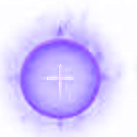
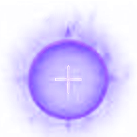
Bottom bar: supplied bar artwork; recentre + sprite frames so the plus stays fixed
Claude-Session: https://claude.ai/code/session_01Ww3m4KYLXCWGYCo8WrB84K

diff --git a/src/ui.tsx b/src/ui.tsx
@@ -187,41 +187,17 @@ const TAB_STYLE: Record<Tab, { d: string[]; color: string; fill?: boolean }> = {
 };
 const LABELS: Record<Tab, string> = { home: 'Dashboard', stats: 'Stats', recipes: 'Recipes', profile: 'Profile' };
 
-const BAR_H = 68; // the bar itself
+const BAR_H = 76; // the bar itself
 const OVER = 92; // room above the bar for the gate button, its aura and its flames
 const MARGIN = 12;
 const BTN_R = 33; // gate button radius
 const CANVAS = 140; // square canvas holding the aura / flames, centred on the button
 const CC = { x: 70, y: 86 }; // button centre inside that canvas
 
-function barPath(w: number) {
-  const p = 3, tip = 26, h = BAR_H, cx = w / 2, nr = BTN_R + 9;
-  const dx = Math.sqrt(nr * nr - 16); // the notch is a circle centred 4px above the top edge
-  return `M ${p + tip} ${p} L ${cx - dx} ${p} A ${nr} ${nr} 0 0 0 ${cx + dx} ${p} L ${w - p - tip} ${p} L ${w - p} ${h / 2} L ${w - p - tip} ${h - p} L ${p + tip} ${h - p} L ${p} ${h / 2} Z`;
-}
-const diamond = (x: number, y: number, rx: number, ry: number) => `M ${x} ${y - ry} L ${x + rx} ${y} L ${x} ${y + ry} L ${x - rx} ${y} Z`;
+const BAR_IMG = require('../assets/bar.png'); // supplied artwork 845x141: notch in the middle, ornaments at both tips and the notch foot
 
 function BarShape({ w }: { w: number }) {
-  const d = barPath(w);
-  return (
-    <Svg width={w} height={BAR_H} style={{ position: 'absolute', left: 0, top: OVER }}>
-      <Defs>
-        <LinearGradient id="barFill" x1="0" y1="0" x2="0" y2="1">
-          <Stop offset="0" stopColor={NAV.fillTop} stopOpacity={1} />
-          <Stop offset="1" stopColor={NAV.fillBot} stopOpacity={1} />
-        </LinearGradient>
-      </Defs>
-      <Path d={d} fill="url(#barFill)" />
-      {/* soft outer glow, then the crisp outline */}
-      <Path d={d} fill="none" stroke={NAV.line} strokeOpacity={0.12} strokeWidth={9} strokeLinejoin="round" />
-      <Path d={d} fill="none" stroke={NAV.line} strokeOpacity={0.28} strokeWidth={4.5} strokeLinejoin="round" />
-      <Path d={d} fill="none" stroke={NAV.line} strokeWidth={1.6} strokeLinejoin="round" />
-      {/* ornaments: the two tips and the foot of the notch */}
-      <Path d={diamond(10, BAR_H / 2, 5.5, 7.5)} fill={NAV.fillBot} stroke={NAV.ring} strokeWidth={1.4} />
-      <Path d={diamond(w - 10, BAR_H / 2, 5.5, 7.5)} fill={NAV.fillBot} stroke={NAV.ring} strokeWidth={1.4} />
-      <Path d={diamond(w / 2, 3 + BTN_R + 9 - 4 - 1, 4.5, 6)} fill={NAV.ring} />
-    </Svg>
-  );
+  return <Image source={BAR_IMG} style={{ position: 'absolute', left: 0, top: OVER, width: w, height: BAR_H }} resizeMode="stretch" fadeDuration={0} />;
 }
 
 const TAB_IMG: Record<Tab, { on: number; off: number }> = {
@@ -247,8 +223,9 @@ const GATE_FRAMES = [
   require('../assets/gate/f08.png'), require('../assets/gate/f09.png'), require('../assets/gate/f10.png'), require('../assets/gate/f11.png'),
 ];
 const GATE_FRAME_MS = 120; // 12 frames, looping (idle pulse / breathing)
-const GATE_SIZE = 116; // sprite is 137px with the ring about 80px wide: scaled so the ring is about the notch size
-const GATE_CX = 58, GATE_CY = 66; // ring centre inside the scaled sprite
+const GATE_SIZE = 89; // sprite is 137px square, recentred on the "+" so it never drifts; the ring (~80px) shows at ~52
+const GATE_CX = (68 / 137) * GATE_SIZE, GATE_CY = (79 / 137) * GATE_SIZE; // the "+" centre inside the scaled sprite
+const GATE_DY = -7; // "+" centre relative to the top edge of the bar
 
 /** The "+" gate: a 12-frame looping sprite (violet ring breathing with flames). Pressed = shrinks and dims. */
 function GateButton({ onPress }: { onPress: () => void }) {
@@ -263,7 +240,7 @@ function GateButton({ onPress }: { onPress: () => void }) {
   const op = press.interpolate({ inputRange: [0, 1], outputRange: [1, 0.8] });
   return (
     <Pressable style={s.gate} onPress={onPress} onPressIn={() => to(1)} onPressOut={() => to(0)} accessibilityRole="button" accessibilityLabel="Add">
-      <Animated.View pointerEvents="none" style={{ position: 'absolute', left: BTN_R - GATE_CX, top: BTN_R - GATE_CY, width: GATE_SIZE, height: GATE_SIZE, opacity: op, transform: [{ scale }] }}>
+      <Animated.View pointerEvents="none" style={{ position: 'absolute', left: BTN_R - GATE_CX, top: BTN_R + 1 + GATE_DY - GATE_CY, width: GATE_SIZE, height: GATE_SIZE, opacity: op, transform: [{ scale }] }}>
         <Image source={GATE_FRAMES[frame]} style={{ width: GATE_SIZE, height: GATE_SIZE }} fadeDuration={0} />
       </Animated.View>
     </Pressable>
@@ -280,7 +257,7 @@ export function BottomNav({ tab, onTab, onAdd }: { tab: Tab; onTab: (t: Tab) => 
       <View style={s.tabs} pointerEvents="box-none">
         <TabItem t="home" on={tab === 'home'} onPress={() => onTab('home')} />
         <TabItem t="stats" on={tab === 'stats'} onPress={() => onTab('stats')} />
-        <View style={{ width: 2 * (BTN_R + 9) }} />
+        <View style={{ width: 66 }} />
         <TabItem t="recipes" on={tab === 'recipes'} onPress={() => onTab('recipes')} />
         <TabItem t="profile" on={tab === 'profile'} onPress={() => onTab('profile')} />
       </View>
@@ -297,7 +274,7 @@ const mkStyles = () => StyleSheet.create({
   rule: { height: 1, backgroundColor: c.line, marginTop: 8 },
   ruleBright: { width: 54, height: 2, marginTop: -0.5, backgroundColor: c.glow, ...glow(c.glow, 8, 0.9) },
   navWrap: { position: 'absolute', height: OVER + BAR_H },
-  tabs: { position: 'absolute', left: 16, right: 16, top: OVER, height: BAR_H, flexDirection: 'row', alignItems: 'center', justifyContent: 'space-between' },
+  tabs: { position: 'absolute', left: 20, right: 20, top: OVER, height: BAR_H, flexDirection: 'row', alignItems: 'center', justifyContent: 'space-between' },
   tab: { width: TAB_W, height: BAR_H, alignItems: 'center', justifyContent: 'center' },
   tabIcon: { width: 64, height: 34, alignItems: 'center', justifyContent: 'center' },
   tabLabel: { fontFamily: f.medium, fontSize: 11.5, marginTop: 1 },
